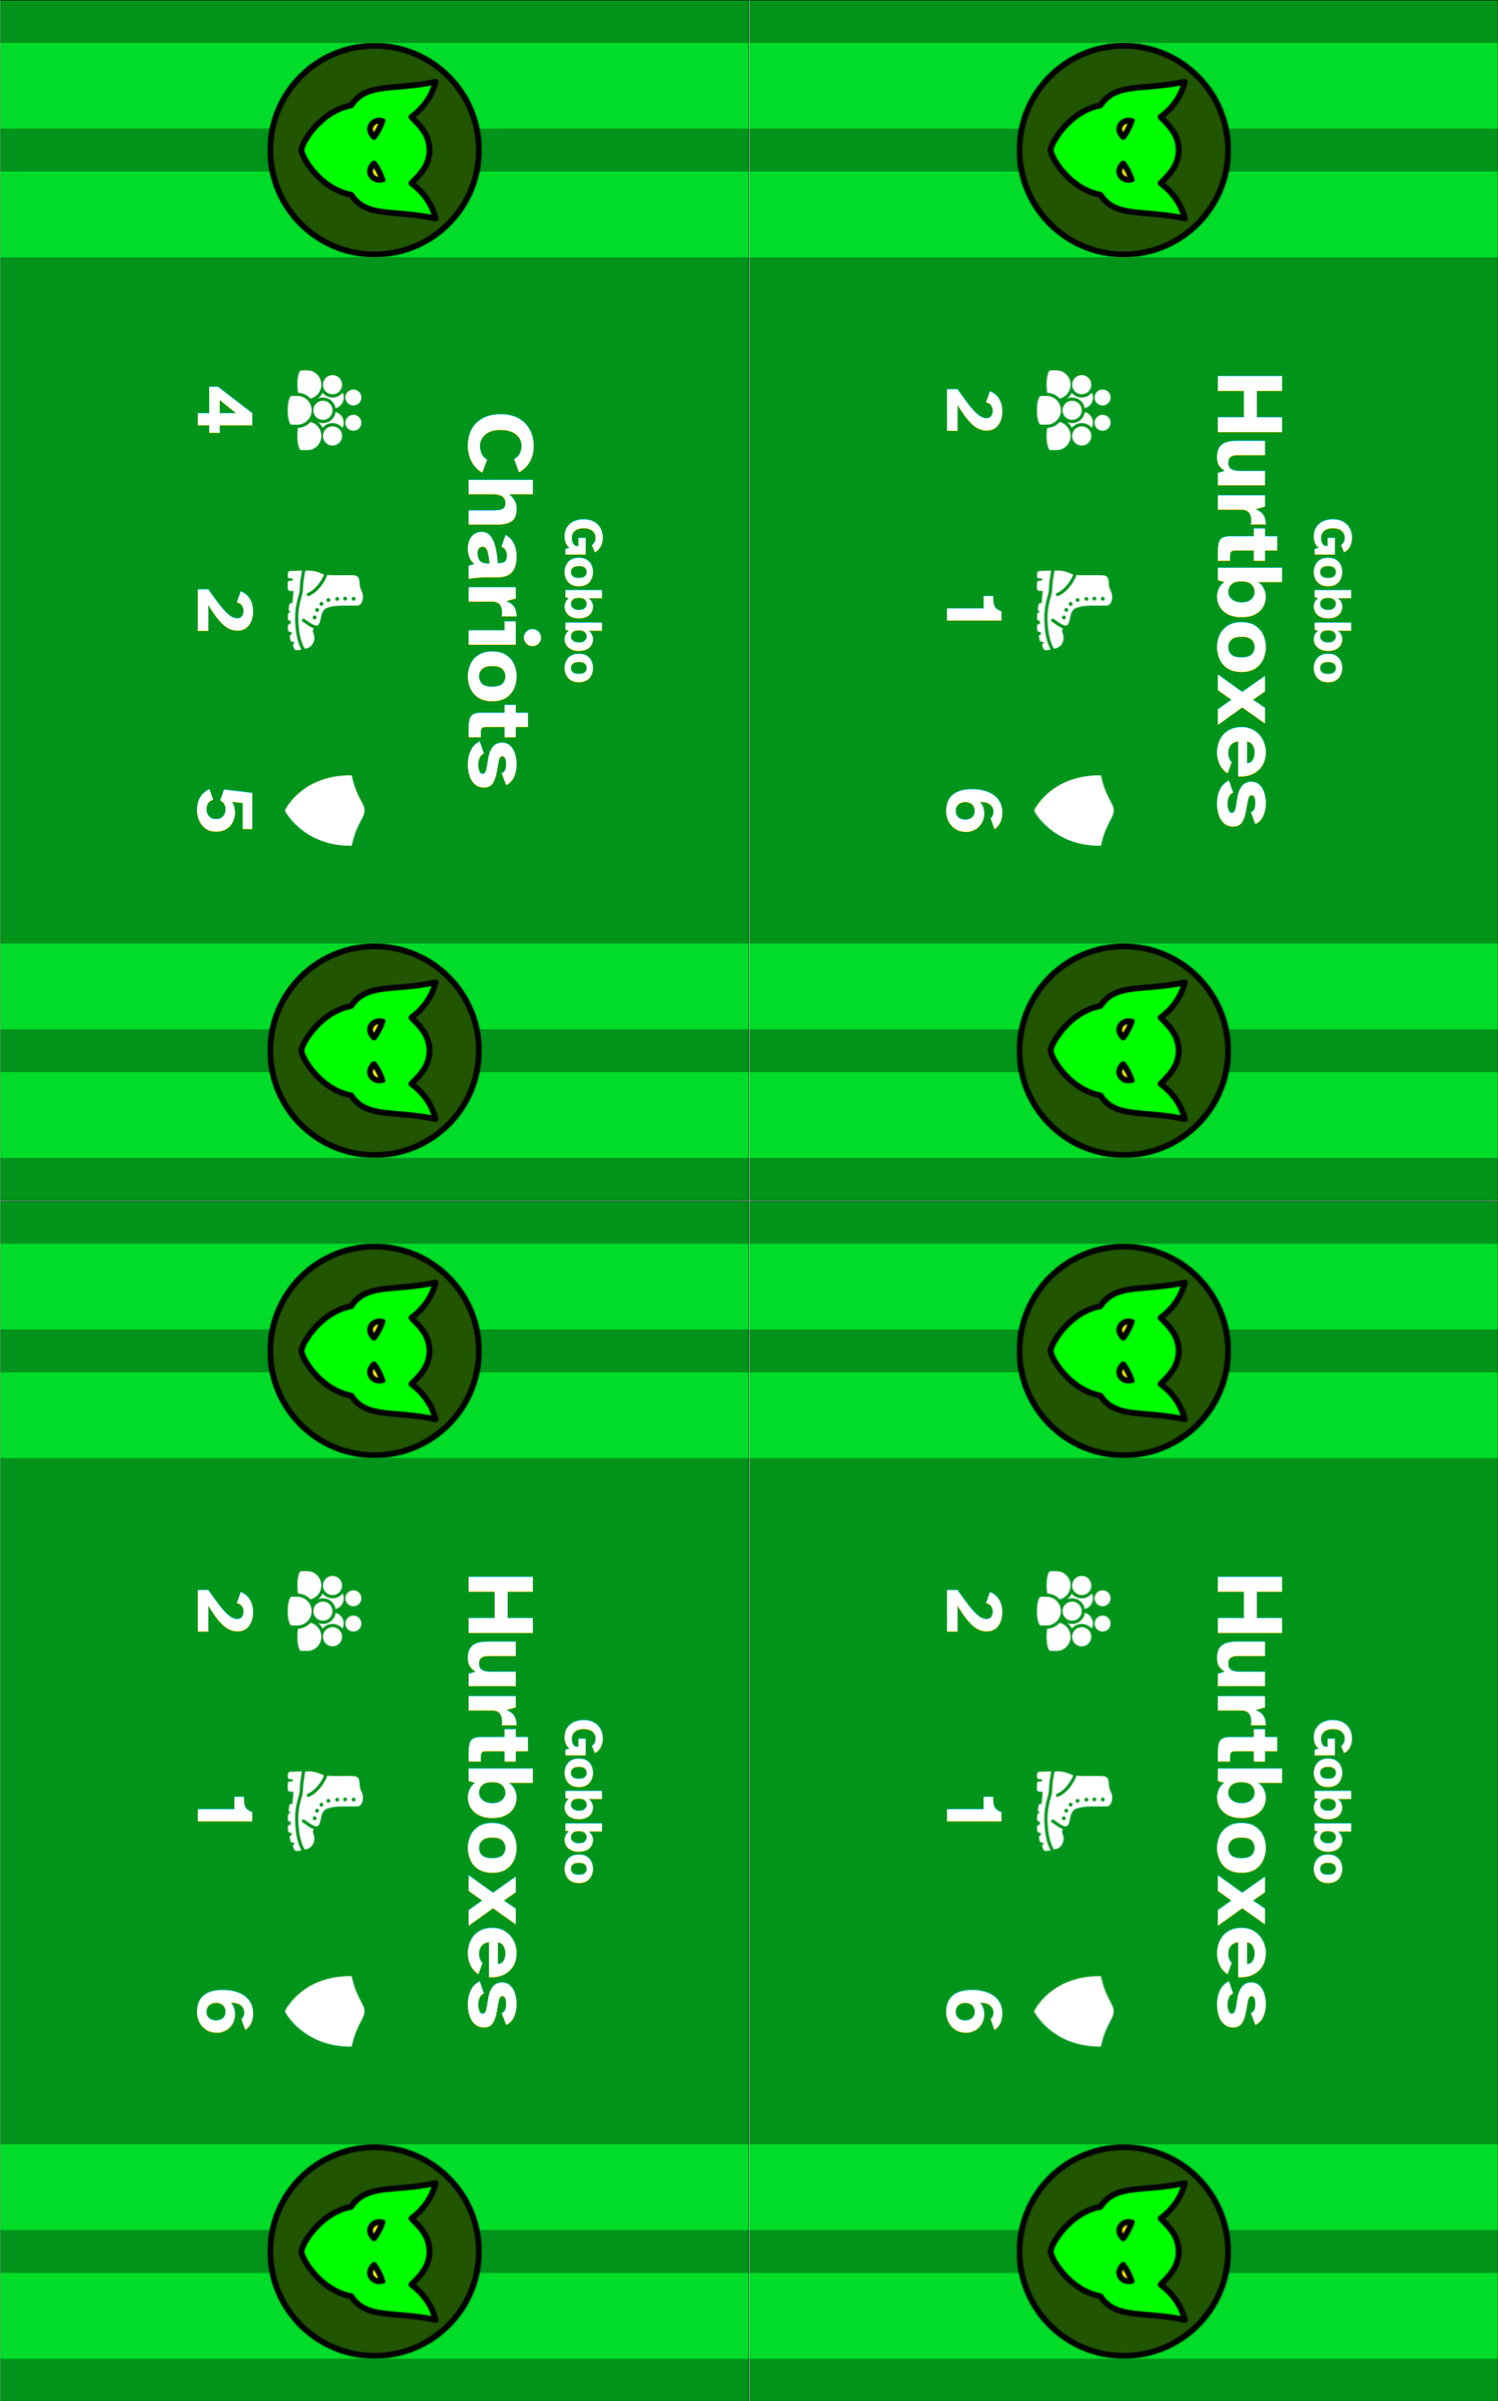
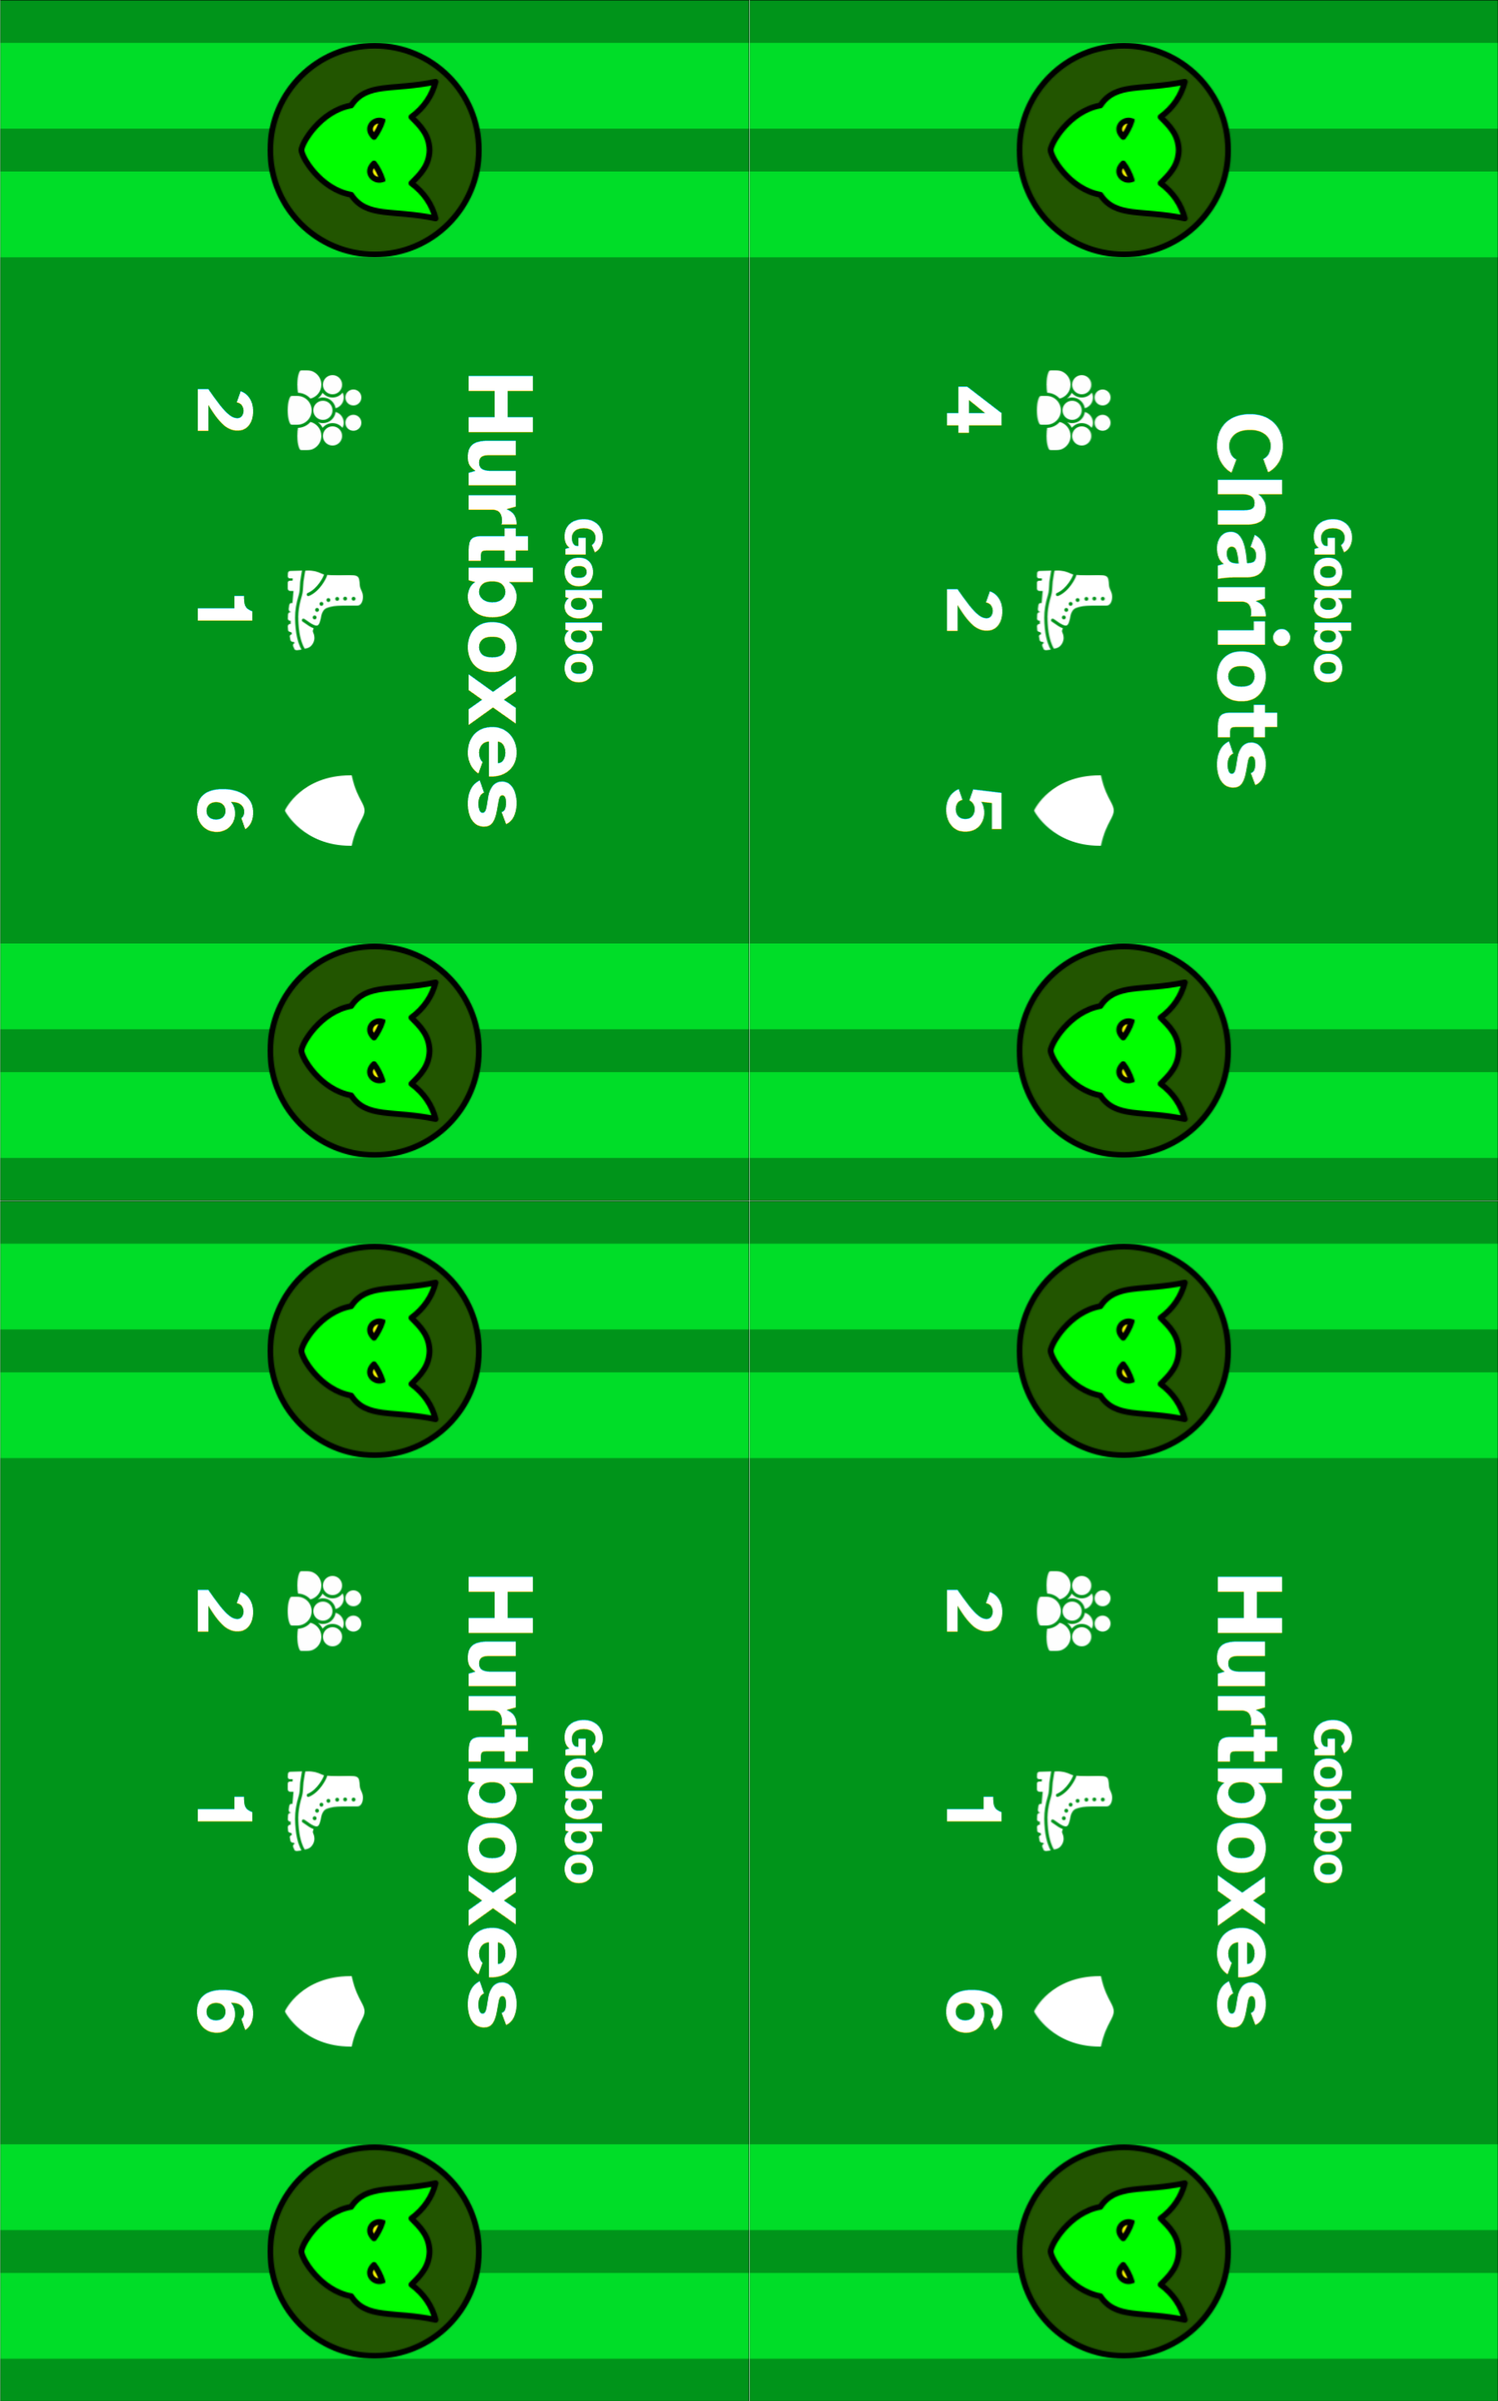
Set print sprues up for duplex printing

diff --git a/card-generator/backmaker.rb b/card-generator/backmaker.rb
@@ -105,7 +105,7 @@ Squib::Deck.new(cards: MAX_CARD_COUNT, width: FULL_CARD_WIDTH, height: FULL_CARD
   save_png dir: '_backs', prefix: data['Unit'], count_format: '', suffix: 'L1'  
   save_sheet dir: '_sprues_tt', rows:5, columns: 3, suffix: 'L1_backs' 
   rect x: 0, y: 0, width: FULL_CARD_WIDTH, height: FULL_CARD_HEIGHT, stroke_width: SCALE, stroke_color: 'black'
-  save_sheet dir: '_sprues_print', rows:2, columns: 2, suffix: 'L1_backs', rotate: true
+  save_sheet dir: '_sprues_print', rows:2, columns: 2, suffix: 'L1_backs', rotate: true, rtl: true
 end
 
 Squib::Deck.new(cards: MAX_CARD_COUNT, width: FULL_CARD_WIDTH, height: FULL_CARD_HEIGHT) do
@@ -145,7 +145,7 @@ Squib::Deck.new(cards: MAX_CARD_COUNT, width: FULL_CARD_WIDTH, height: FULL_CARD
   save_png dir: '_backs', prefix: data['Unit'], count_format: '', suffix: 'L2'  
   save_sheet dir: '_sprues_tt', rows:5, columns: 3, suffix: 'L2_backs' 
   rect x: 0, y: 0, width: FULL_CARD_WIDTH, height: FULL_CARD_HEIGHT, stroke_width: SCALE, stroke_color: 'black'
-  save_sheet dir: '_sprues_print', rows:2, columns: 2, suffix: 'L2_backs', rotate: true
+  save_sheet dir: '_sprues_print', rows:2, columns: 2, suffix: 'L2_backs', rotate: true, rtl: true
 end
 
 

diff --git a/card-generator/weaponmaker.rb b/card-generator/weaponmaker.rb
@@ -133,7 +133,7 @@ Squib::Deck.new(cards: MAX_CARD_COUNT, width: FULL_CARD_WIDTH, height: FULL_CARD
 
   save_sheet dir: '_sprues_tt', prefix: 'weapons_', suffix: '_backs', rows:4, columns: 5
   rect x: 0, y: 0, width: FULL_CARD_WIDTH, height: FULL_CARD_HEIGHT, stroke_width: SCALE, stroke_color: 'black'
-  save_sheet dir: '_sprues_print', prefix: 'weapons_', suffix: '_backs', rows:3, columns: 3
+  save_sheet dir: '_sprues_print', prefix: 'weapons_', suffix: '_backs', rows:3, columns: 3, rtl: true
 end
 
 puts "Done";
